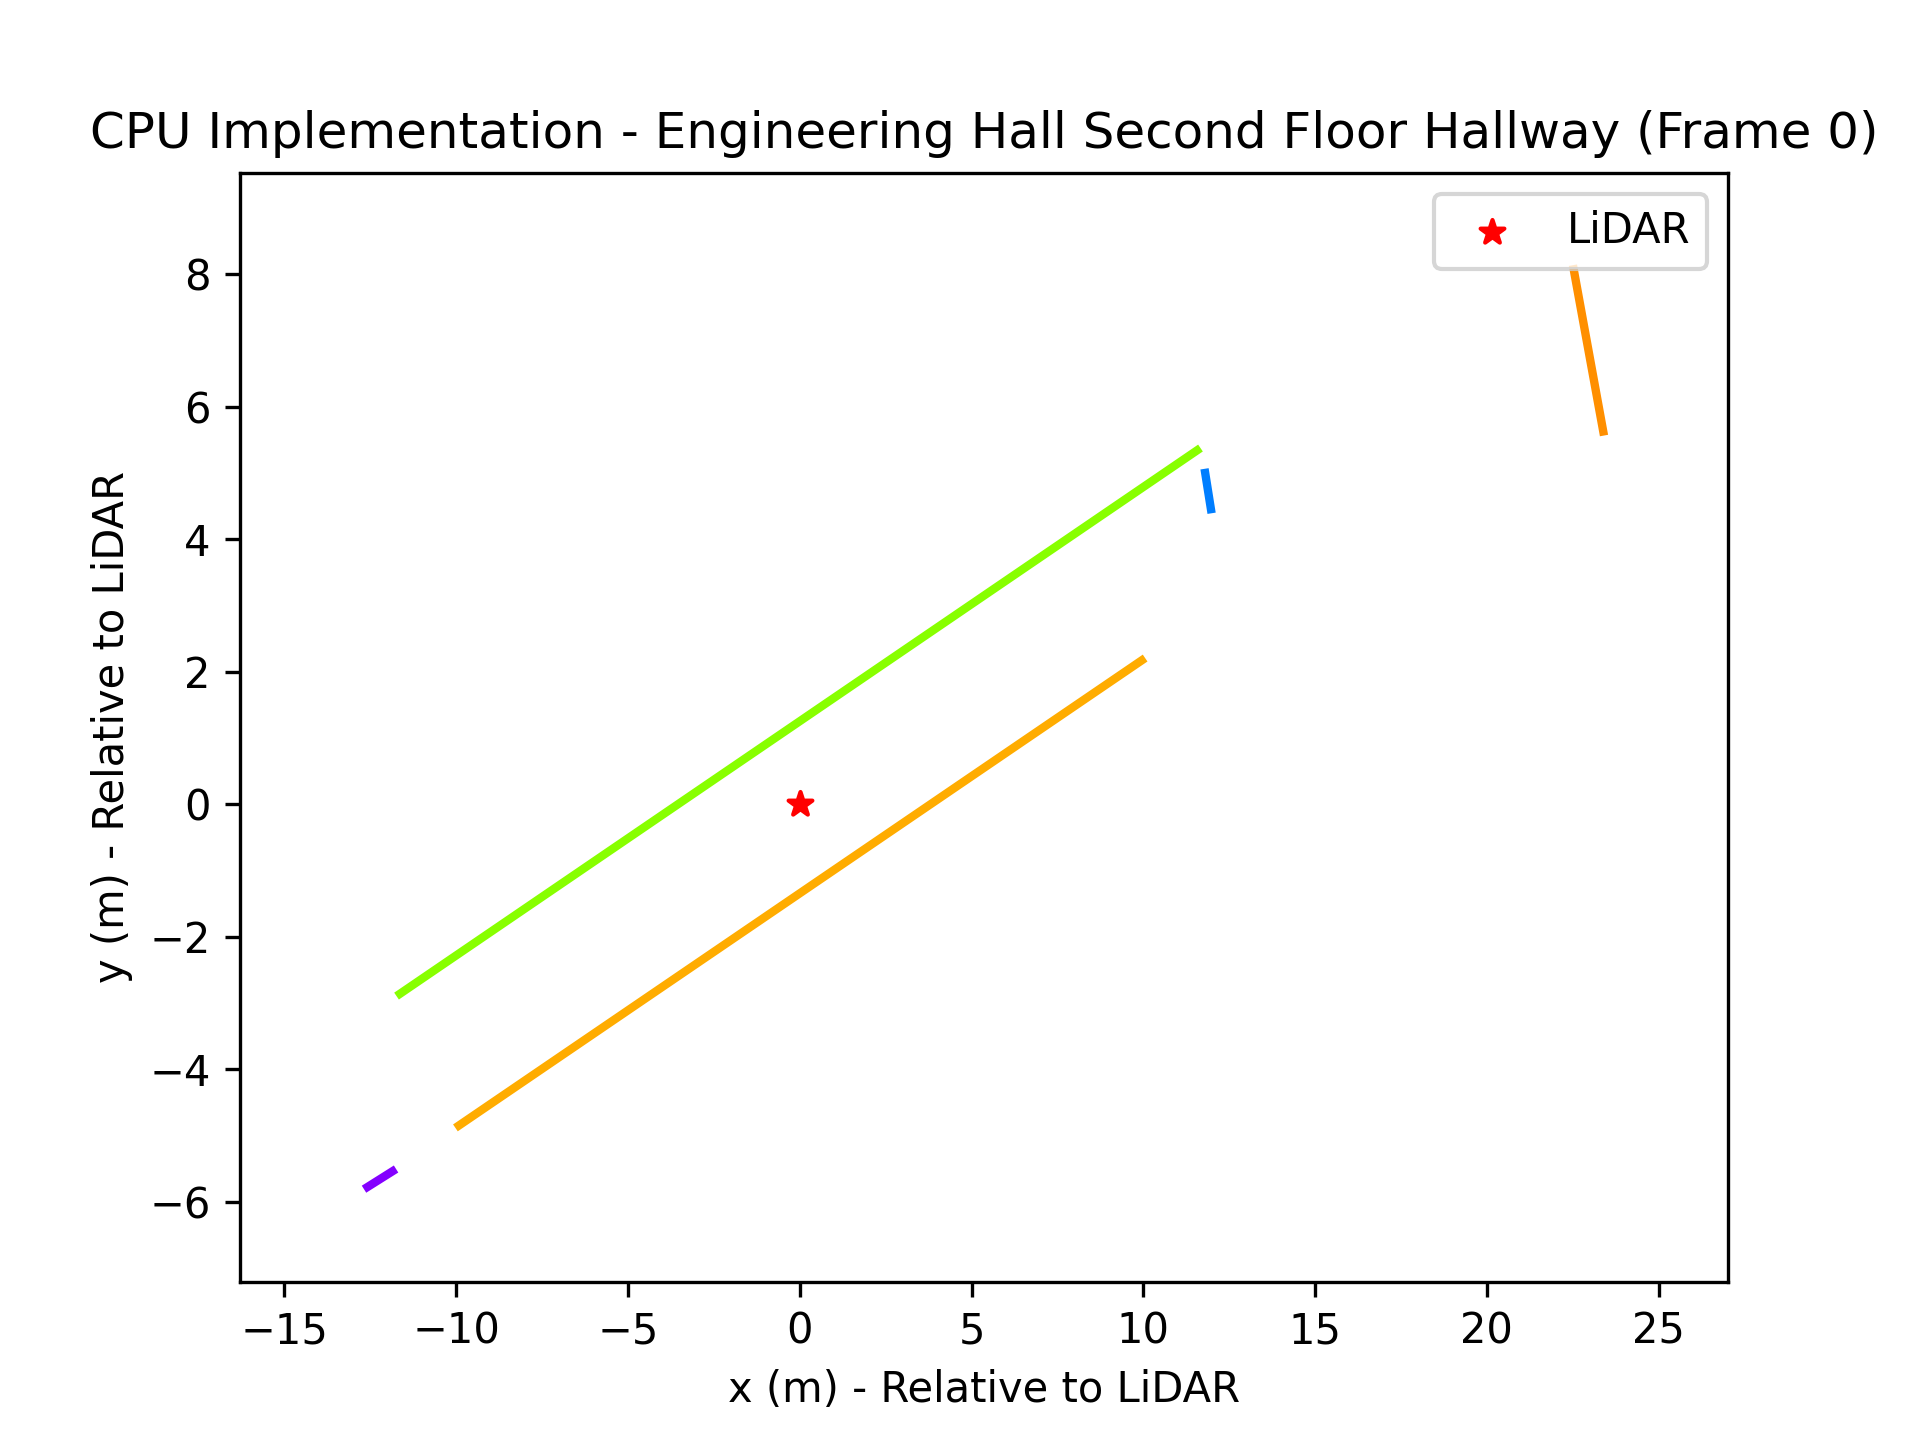
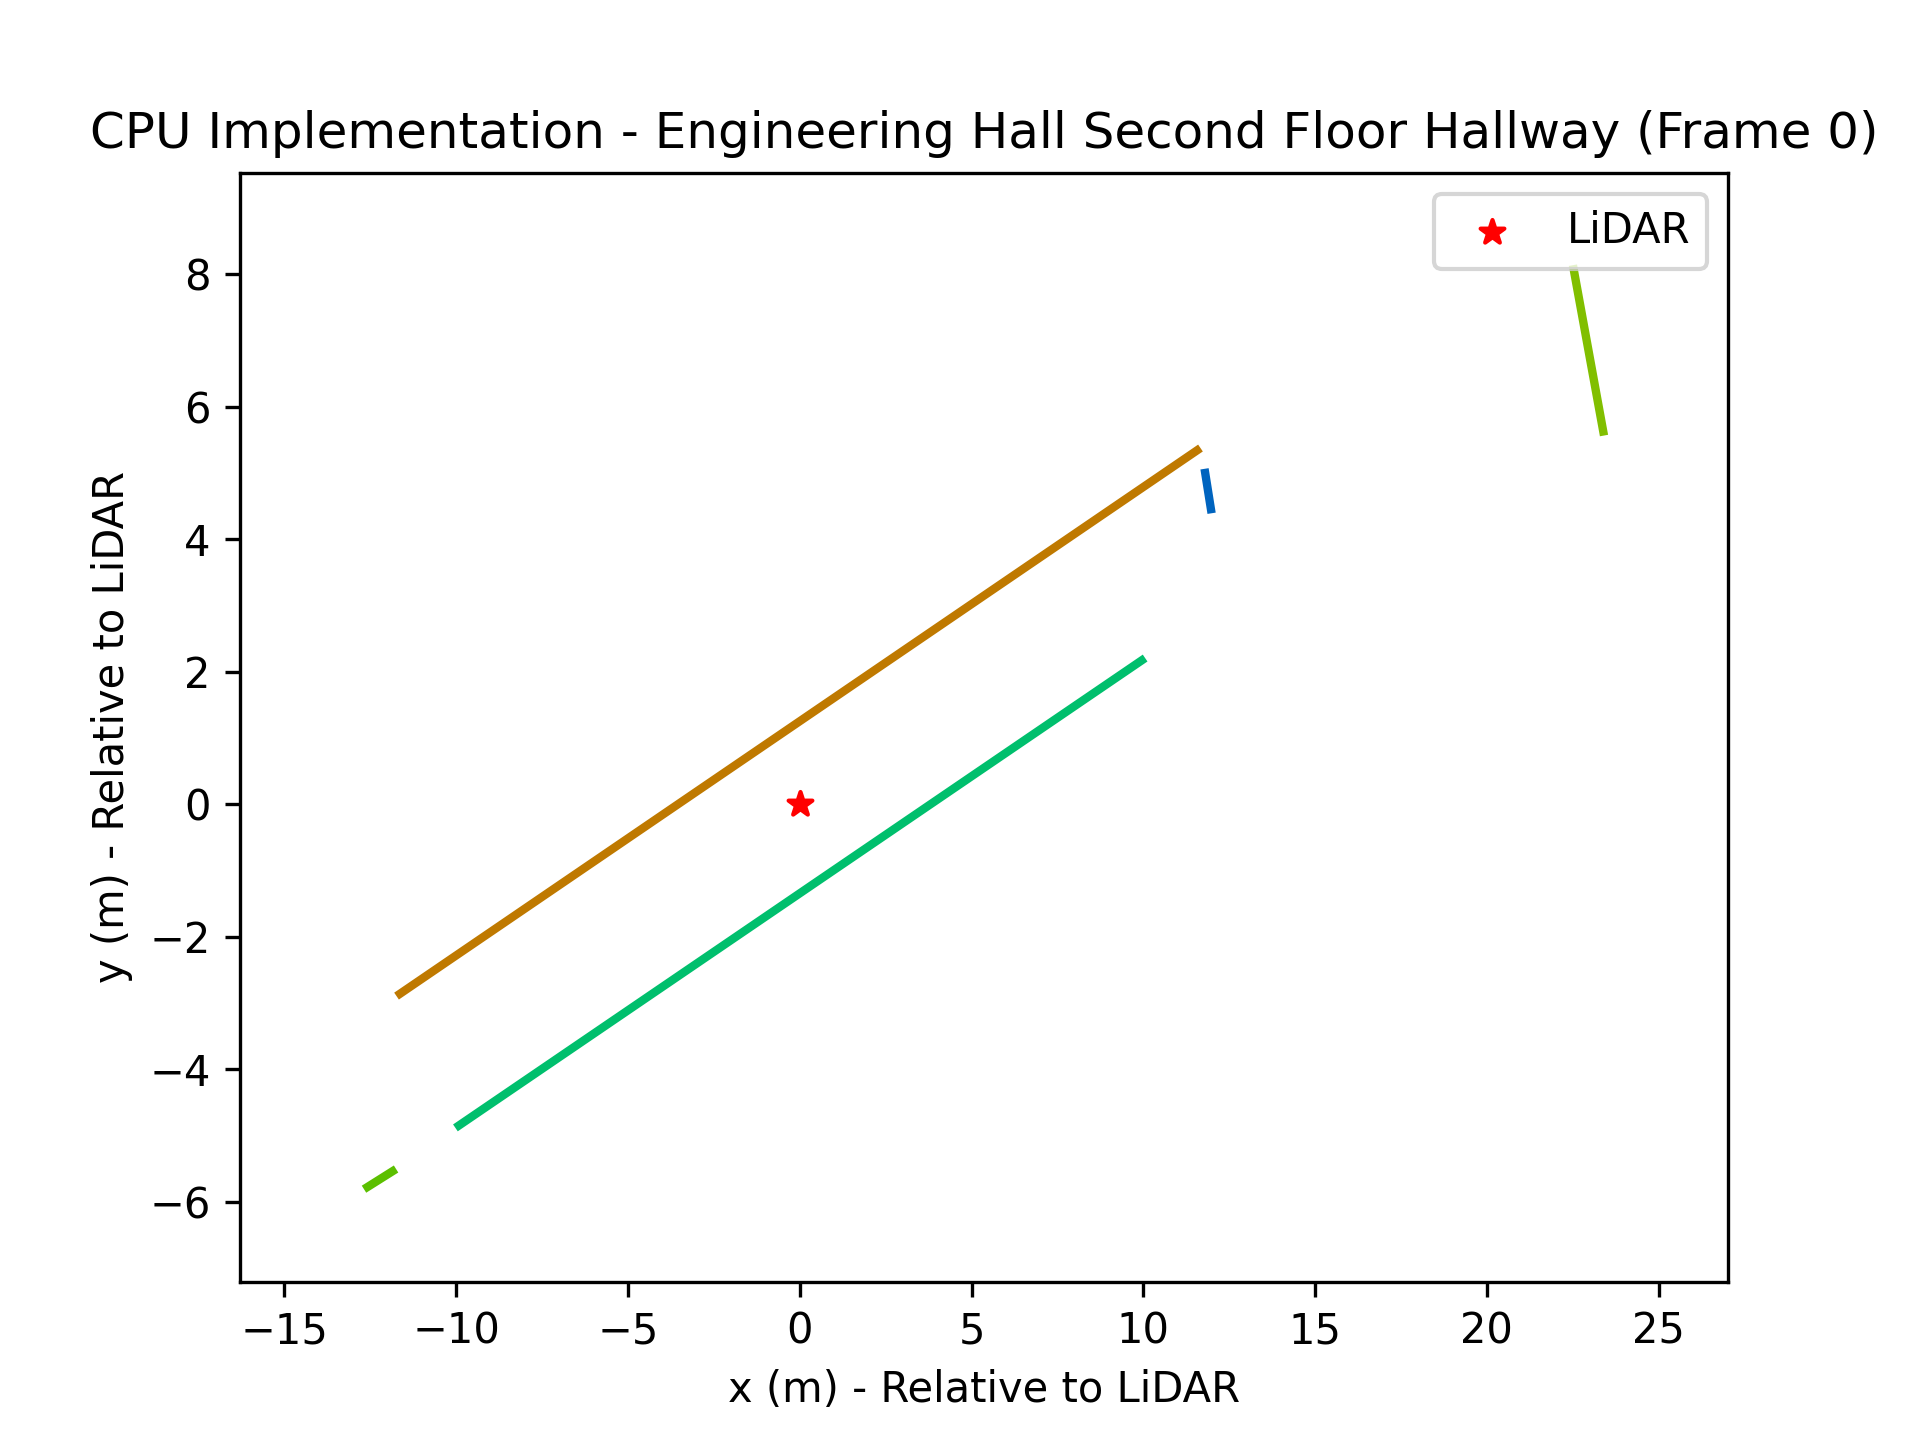
Final Project: Increased contrast.

diff --git a/scripts/identify-walls/displayLines.py b/scripts/identify-walls/displayLines.py
@@ -27,7 +27,7 @@ with open(args.csvFile, "r") as file:
     p2 = data[:,[3,4]].astype(np.float32)
 
     lines = list(map(lambda x, y: [x, y], list(map(tuple, p1)), list(map(tuple, p2))))
-    colors = list(map(lambda line: mcol.hsv_to_rgb([np.random.rand(), 1, 1]), lines))
+    colors = list(map(lambda line: mcol.hsv_to_rgb([np.random.rand(), 1, 0.75]), lines))
 
     print("Displaying {} lines.".format(len(lines)))
 
